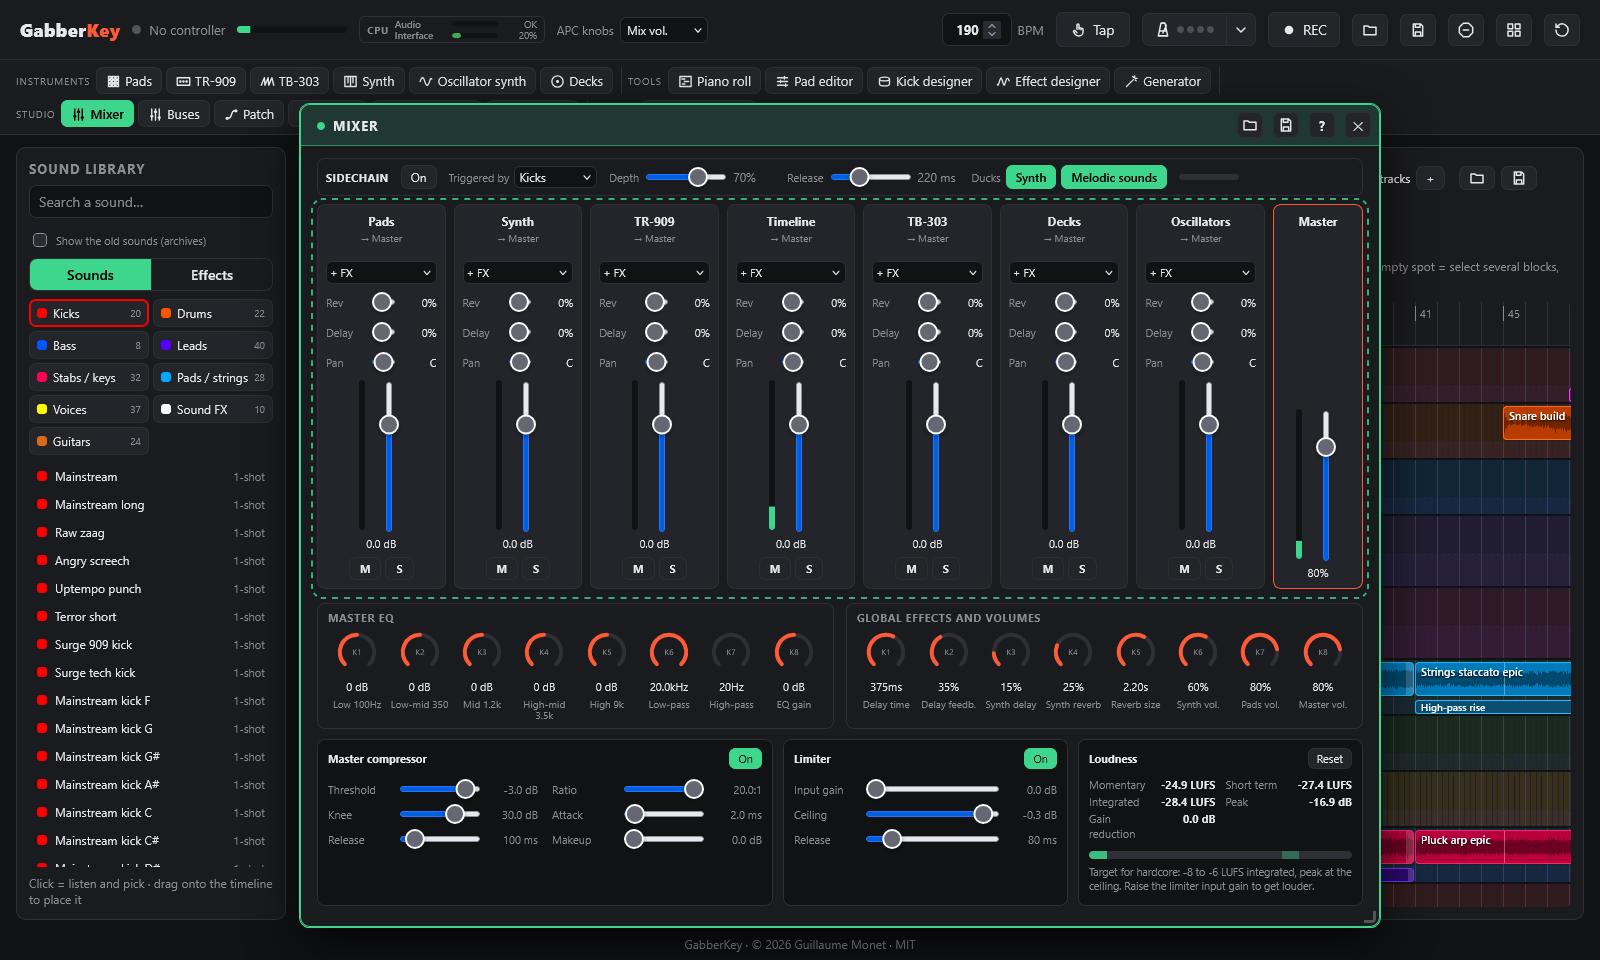
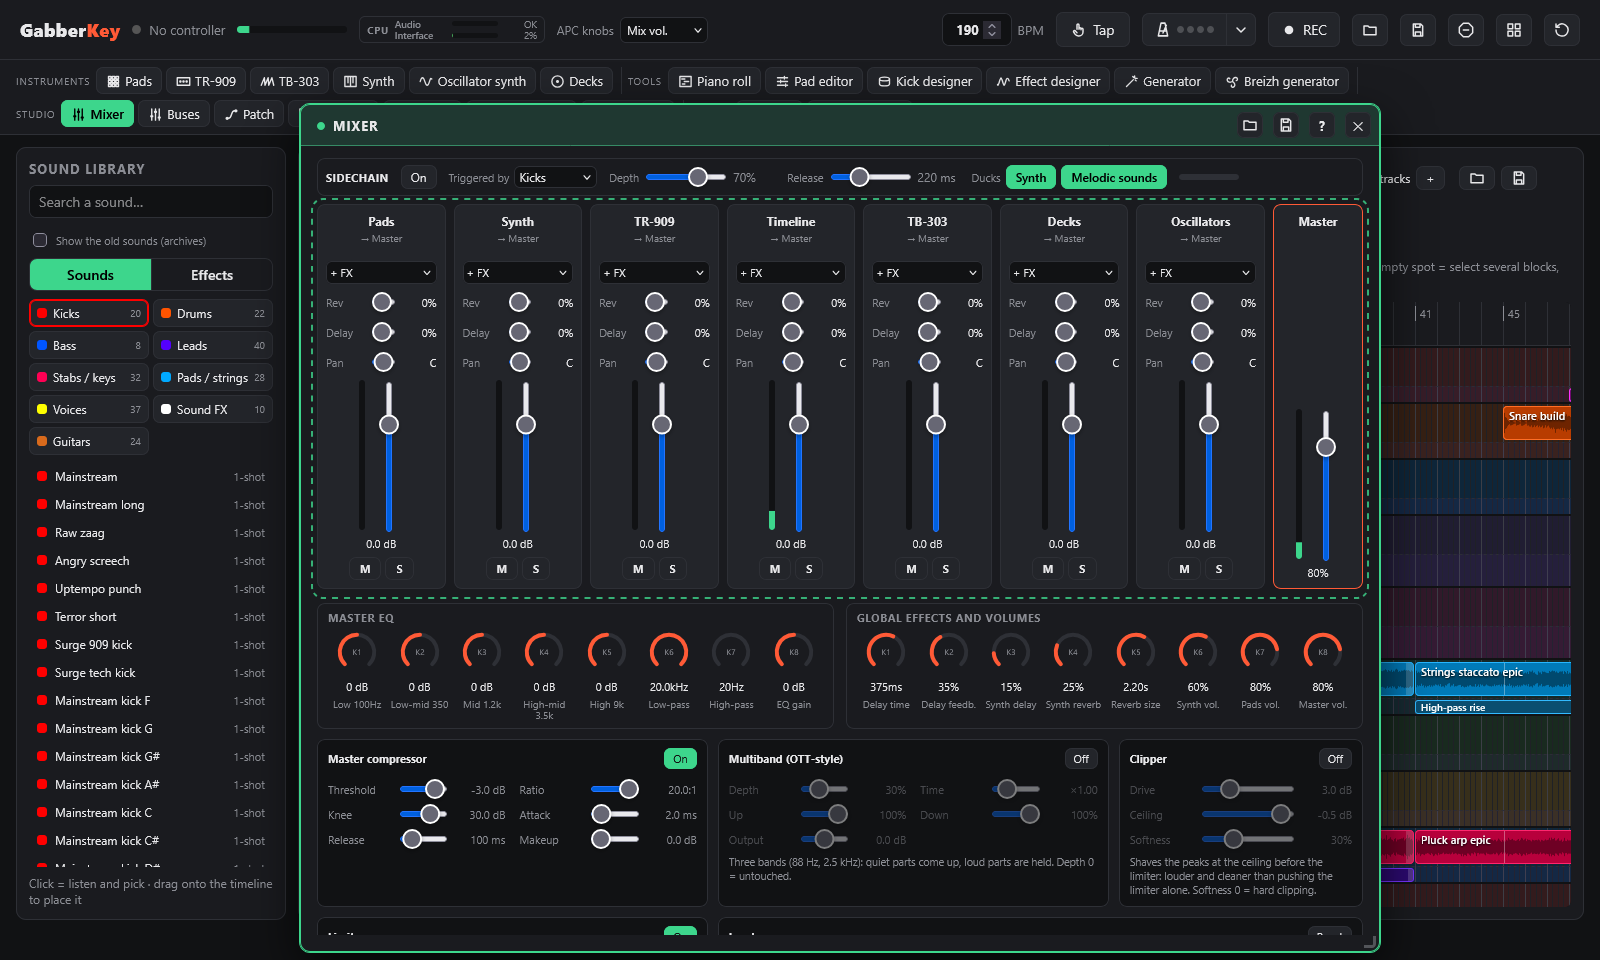
Clipper and OTT merged: mixer screenshots retaken; scripts ?v=99

diff --git a/index.html b/index.html
@@ -5,7 +5,7 @@
   <meta name="viewport" content="width=device-width, initial-scale=1">
   <meta name="author" content="Guillaume Monet">
   <title>GabberKey</title>
-  <link rel="stylesheet" href="css/style.css?v=98">
+  <link rel="stylesheet" href="css/style.css?v=99">
 </head>
 <body>
   <div id="start" class="overlay">
@@ -408,105 +408,105 @@
   <script type="importmap">
   {
     "imports": {
-      "./js/app/acid-ui.js": "./js/app/acid-ui.js?v=98",
-      "./js/app/actions.js": "./js/app/actions.js?v=98",
-      "./js/app/controller.js": "./js/app/controller.js?v=98",
-      "./js/app/core.js": "./js/app/core.js?v=98",
-      "./js/app/audio-input.js": "./js/app/audio-input.js?v=98",
-      "./js/app/automation-ui.js": "./js/app/automation-ui.js?v=98",
-      "./js/app/breizh-ui.js": "./js/app/breizh-ui.js?v=98",
-      "./js/app/buses-ui.js": "./js/app/buses-ui.js?v=98",
-      "./js/app/clip-menu.js": "./js/app/clip-menu.js?v=98",
-      "./js/app/curve-ui.js": "./js/app/curve-ui.js?v=98",
-      "./js/app/decks-ui.js": "./js/app/decks-ui.js?v=98",
-      "./js/app/demo.js": "./js/app/demo.js?v=98",
-      "./js/app/export.js": "./js/app/export.js?v=98",
-      "./js/app/files.js": "./js/app/files.js?v=98",
-      "./js/app/gen.js": "./js/app/gen.js?v=98",
-      "./js/app/inserts-ui.js": "./js/app/inserts-ui.js?v=98",
-      "./js/app/kick-ui.js": "./js/app/kick-ui.js?v=98",
-      "./js/app/knobs.js": "./js/app/knobs.js?v=98",
-      "./js/app/launcher.js": "./js/app/launcher.js?v=98",
-      "./js/app/library-ui.js": "./js/app/library-ui.js?v=98",
-      "./js/app/metro-ui.js": "./js/app/metro-ui.js?v=98",
-      "./js/app/markers.js": "./js/app/markers.js?v=98",
-      "./js/app/master-ui.js": "./js/app/master-ui.js?v=98",
-      "./js/app/midi-files.js": "./js/app/midi-files.js?v=98",
-      "./js/app/midi-ui.js": "./js/app/midi-ui.js?v=98",
-      "./js/app/misc.js": "./js/app/misc.js?v=98",
-      "./js/app/mixer-ui.js": "./js/app/mixer-ui.js?v=98",
-      "./js/app/osc-ui.js": "./js/app/osc-ui.js?v=98",
-      "./js/app/pads.js": "./js/app/pads.js?v=98",
-      "./js/app/patch-ui.js": "./js/app/patch-ui.js?v=98",
-      "./js/app/perf-fx.js": "./js/app/perf-fx.js?v=98",
-      "./js/app/play.js": "./js/app/play.js?v=98",
-      "./js/app/piano.js": "./js/app/piano.js?v=98",
-      "./js/app/plugins.js": "./js/app/plugins.js?v=98",
-      "./js/app/presets-bar.js": "./js/app/presets-bar.js?v=98",
-      "./js/app/roll-ui.js": "./js/app/roll-ui.js?v=98",
-      "./js/app/save.js": "./js/app/save.js?v=98",
-      "./js/app/scenes.js": "./js/app/scenes.js?v=98",
-      "./js/app/sounds.js": "./js/app/sounds.js?v=98",
-      "./js/app/sidechain-ui.js": "./js/app/sidechain-ui.js?v=98",
-      "./js/app/synth-ui.js": "./js/app/synth-ui.js?v=98",
-      "./js/app/tempo.js": "./js/app/tempo.js?v=98",
-      "./js/app/tl-listen.js": "./js/app/tl-listen.js?v=98",
-      "./js/app/tl-record.js": "./js/app/tl-record.js?v=98",
-      "./js/app/tl-select.js": "./js/app/tl-select.js?v=98",
-      "./js/app/tl.js": "./js/app/tl.js?v=98",
-      "./js/app/tr909-ui.js": "./js/app/tr909-ui.js?v=98",
-      "./js/app/trackfx-ui.js": "./js/app/trackfx-ui.js?v=98",
-      "./js/app/undo.js": "./js/app/undo.js?v=98",
-      "./js/app/warp.js": "./js/app/warp.js?v=98",
-      "./js/app/viz-ui.js": "./js/app/viz-ui.js?v=98",
-      "./js/acid.js": "./js/acid.js?v=98",
-      "./js/apc.js": "./js/apc.js?v=98",
-      "./js/audio.js": "./js/audio.js?v=98",
-      "./js/decks.js": "./js/decks.js?v=98",
-      "./js/dynamics.js": "./js/dynamics.js?v=98",
-      "./js/chords.js": "./js/chords.js?v=98",
-      "./js/help.js": "./js/help.js?v=98",
-      "./js/history.js": "./js/history.js?v=98",
-      "./js/i18n.js": "./js/i18n.js?v=98",
-      "./js/kickdesign.js": "./js/kickdesign.js?v=98",
-      "./js/kicksynth.js": "./js/kicksynth.js?v=98",
-      "./js/kit.js": "./js/kit.js?v=98",
-      "./js/kits.js": "./js/kits.js?v=98",
-      "./js/metronome.js": "./js/metronome.js?v=98",
-      "./js/cpumeter.js": "./js/cpumeter.js?v=98",
-      "./js/curves.js": "./js/curves.js?v=98",
-      "./js/library.js": "./js/library.js?v=98",
-      "./js/lufs.js": "./js/lufs.js?v=98",
-      "./js/breizh.js": "./js/breizh.js?v=98",
-      "./js/melody.js": "./js/melody.js?v=98",
-      "./js/midi.js": "./js/midi.js?v=98",
-      "./js/midiclock.js": "./js/midiclock.js?v=98",
-      "./js/smf.js": "./js/smf.js?v=98",
-      "./js/main.js": "./js/main.js?v=98",
-      "./js/mixer.js": "./js/mixer.js?v=98",
-      "./js/notes.js": "./js/notes.js?v=98",
-      "./js/osc.js": "./js/osc.js?v=98",
-      "./js/params.js": "./js/params.js?v=98",
-      "./js/patch.js": "./js/patch.js?v=98",
-      "./js/performer.js": "./js/performer.js?v=98",
-      "./js/pianoroll.js": "./js/pianoroll.js?v=98",
-      "./js/presets.js": "./js/presets.js?v=98",
-      "./js/project.js": "./js/project.js?v=98",
-      "./js/sidechain.js": "./js/sidechain.js?v=98",
-      "./js/recorder.js": "./js/recorder.js?v=98",
-      "./js/timeline.js": "./js/timeline.js?v=98",
-      "./js/storage.js": "./js/storage.js?v=98",
-      "./js/stretch.js": "./js/stretch.js?v=98",
-      "./js/suggest.js": "./js/suggest.js?v=98",
-      "./js/tr909.js": "./js/tr909.js?v=98",
-      "./js/trackfx.js": "./js/trackfx.js?v=98",
-      "./js/visualizer.js": "./js/visualizer.js?v=98",
-      "./js/viz3d.js": "./js/viz3d.js?v=98",
-      "./js/windows.js": "./js/windows.js?v=98",
-      "./js/zip.js": "./js/zip.js?v=98"
+      "./js/app/acid-ui.js": "./js/app/acid-ui.js?v=99",
+      "./js/app/actions.js": "./js/app/actions.js?v=99",
+      "./js/app/controller.js": "./js/app/controller.js?v=99",
+      "./js/app/core.js": "./js/app/core.js?v=99",
+      "./js/app/audio-input.js": "./js/app/audio-input.js?v=99",
+      "./js/app/automation-ui.js": "./js/app/automation-ui.js?v=99",
+      "./js/app/breizh-ui.js": "./js/app/breizh-ui.js?v=99",
+      "./js/app/buses-ui.js": "./js/app/buses-ui.js?v=99",
+      "./js/app/clip-menu.js": "./js/app/clip-menu.js?v=99",
+      "./js/app/curve-ui.js": "./js/app/curve-ui.js?v=99",
+      "./js/app/decks-ui.js": "./js/app/decks-ui.js?v=99",
+      "./js/app/demo.js": "./js/app/demo.js?v=99",
+      "./js/app/export.js": "./js/app/export.js?v=99",
+      "./js/app/files.js": "./js/app/files.js?v=99",
+      "./js/app/gen.js": "./js/app/gen.js?v=99",
+      "./js/app/inserts-ui.js": "./js/app/inserts-ui.js?v=99",
+      "./js/app/kick-ui.js": "./js/app/kick-ui.js?v=99",
+      "./js/app/knobs.js": "./js/app/knobs.js?v=99",
+      "./js/app/launcher.js": "./js/app/launcher.js?v=99",
+      "./js/app/library-ui.js": "./js/app/library-ui.js?v=99",
+      "./js/app/metro-ui.js": "./js/app/metro-ui.js?v=99",
+      "./js/app/markers.js": "./js/app/markers.js?v=99",
+      "./js/app/master-ui.js": "./js/app/master-ui.js?v=99",
+      "./js/app/midi-files.js": "./js/app/midi-files.js?v=99",
+      "./js/app/midi-ui.js": "./js/app/midi-ui.js?v=99",
+      "./js/app/misc.js": "./js/app/misc.js?v=99",
+      "./js/app/mixer-ui.js": "./js/app/mixer-ui.js?v=99",
+      "./js/app/osc-ui.js": "./js/app/osc-ui.js?v=99",
+      "./js/app/pads.js": "./js/app/pads.js?v=99",
+      "./js/app/patch-ui.js": "./js/app/patch-ui.js?v=99",
+      "./js/app/perf-fx.js": "./js/app/perf-fx.js?v=99",
+      "./js/app/play.js": "./js/app/play.js?v=99",
+      "./js/app/piano.js": "./js/app/piano.js?v=99",
+      "./js/app/plugins.js": "./js/app/plugins.js?v=99",
+      "./js/app/presets-bar.js": "./js/app/presets-bar.js?v=99",
+      "./js/app/roll-ui.js": "./js/app/roll-ui.js?v=99",
+      "./js/app/save.js": "./js/app/save.js?v=99",
+      "./js/app/scenes.js": "./js/app/scenes.js?v=99",
+      "./js/app/sounds.js": "./js/app/sounds.js?v=99",
+      "./js/app/sidechain-ui.js": "./js/app/sidechain-ui.js?v=99",
+      "./js/app/synth-ui.js": "./js/app/synth-ui.js?v=99",
+      "./js/app/tempo.js": "./js/app/tempo.js?v=99",
+      "./js/app/tl-listen.js": "./js/app/tl-listen.js?v=99",
+      "./js/app/tl-record.js": "./js/app/tl-record.js?v=99",
+      "./js/app/tl-select.js": "./js/app/tl-select.js?v=99",
+      "./js/app/tl.js": "./js/app/tl.js?v=99",
+      "./js/app/tr909-ui.js": "./js/app/tr909-ui.js?v=99",
+      "./js/app/trackfx-ui.js": "./js/app/trackfx-ui.js?v=99",
+      "./js/app/undo.js": "./js/app/undo.js?v=99",
+      "./js/app/warp.js": "./js/app/warp.js?v=99",
+      "./js/app/viz-ui.js": "./js/app/viz-ui.js?v=99",
+      "./js/acid.js": "./js/acid.js?v=99",
+      "./js/apc.js": "./js/apc.js?v=99",
+      "./js/audio.js": "./js/audio.js?v=99",
+      "./js/decks.js": "./js/decks.js?v=99",
+      "./js/dynamics.js": "./js/dynamics.js?v=99",
+      "./js/chords.js": "./js/chords.js?v=99",
+      "./js/help.js": "./js/help.js?v=99",
+      "./js/history.js": "./js/history.js?v=99",
+      "./js/i18n.js": "./js/i18n.js?v=99",
+      "./js/kickdesign.js": "./js/kickdesign.js?v=99",
+      "./js/kicksynth.js": "./js/kicksynth.js?v=99",
+      "./js/kit.js": "./js/kit.js?v=99",
+      "./js/kits.js": "./js/kits.js?v=99",
+      "./js/metronome.js": "./js/metronome.js?v=99",
+      "./js/cpumeter.js": "./js/cpumeter.js?v=99",
+      "./js/curves.js": "./js/curves.js?v=99",
+      "./js/library.js": "./js/library.js?v=99",
+      "./js/lufs.js": "./js/lufs.js?v=99",
+      "./js/breizh.js": "./js/breizh.js?v=99",
+      "./js/melody.js": "./js/melody.js?v=99",
+      "./js/midi.js": "./js/midi.js?v=99",
+      "./js/midiclock.js": "./js/midiclock.js?v=99",
+      "./js/smf.js": "./js/smf.js?v=99",
+      "./js/main.js": "./js/main.js?v=99",
+      "./js/mixer.js": "./js/mixer.js?v=99",
+      "./js/notes.js": "./js/notes.js?v=99",
+      "./js/osc.js": "./js/osc.js?v=99",
+      "./js/params.js": "./js/params.js?v=99",
+      "./js/patch.js": "./js/patch.js?v=99",
+      "./js/performer.js": "./js/performer.js?v=99",
+      "./js/pianoroll.js": "./js/pianoroll.js?v=99",
+      "./js/presets.js": "./js/presets.js?v=99",
+      "./js/project.js": "./js/project.js?v=99",
+      "./js/sidechain.js": "./js/sidechain.js?v=99",
+      "./js/recorder.js": "./js/recorder.js?v=99",
+      "./js/timeline.js": "./js/timeline.js?v=99",
+      "./js/storage.js": "./js/storage.js?v=99",
+      "./js/stretch.js": "./js/stretch.js?v=99",
+      "./js/suggest.js": "./js/suggest.js?v=99",
+      "./js/tr909.js": "./js/tr909.js?v=99",
+      "./js/trackfx.js": "./js/trackfx.js?v=99",
+      "./js/visualizer.js": "./js/visualizer.js?v=99",
+      "./js/viz3d.js": "./js/viz3d.js?v=99",
+      "./js/windows.js": "./js/windows.js?v=99",
+      "./js/zip.js": "./js/zip.js?v=99"
     }
   }
   </script>
-  <script type="module" src="js/main.js?v=98"></script>
+  <script type="module" src="js/main.js?v=99"></script>
 </body>
 </html>
